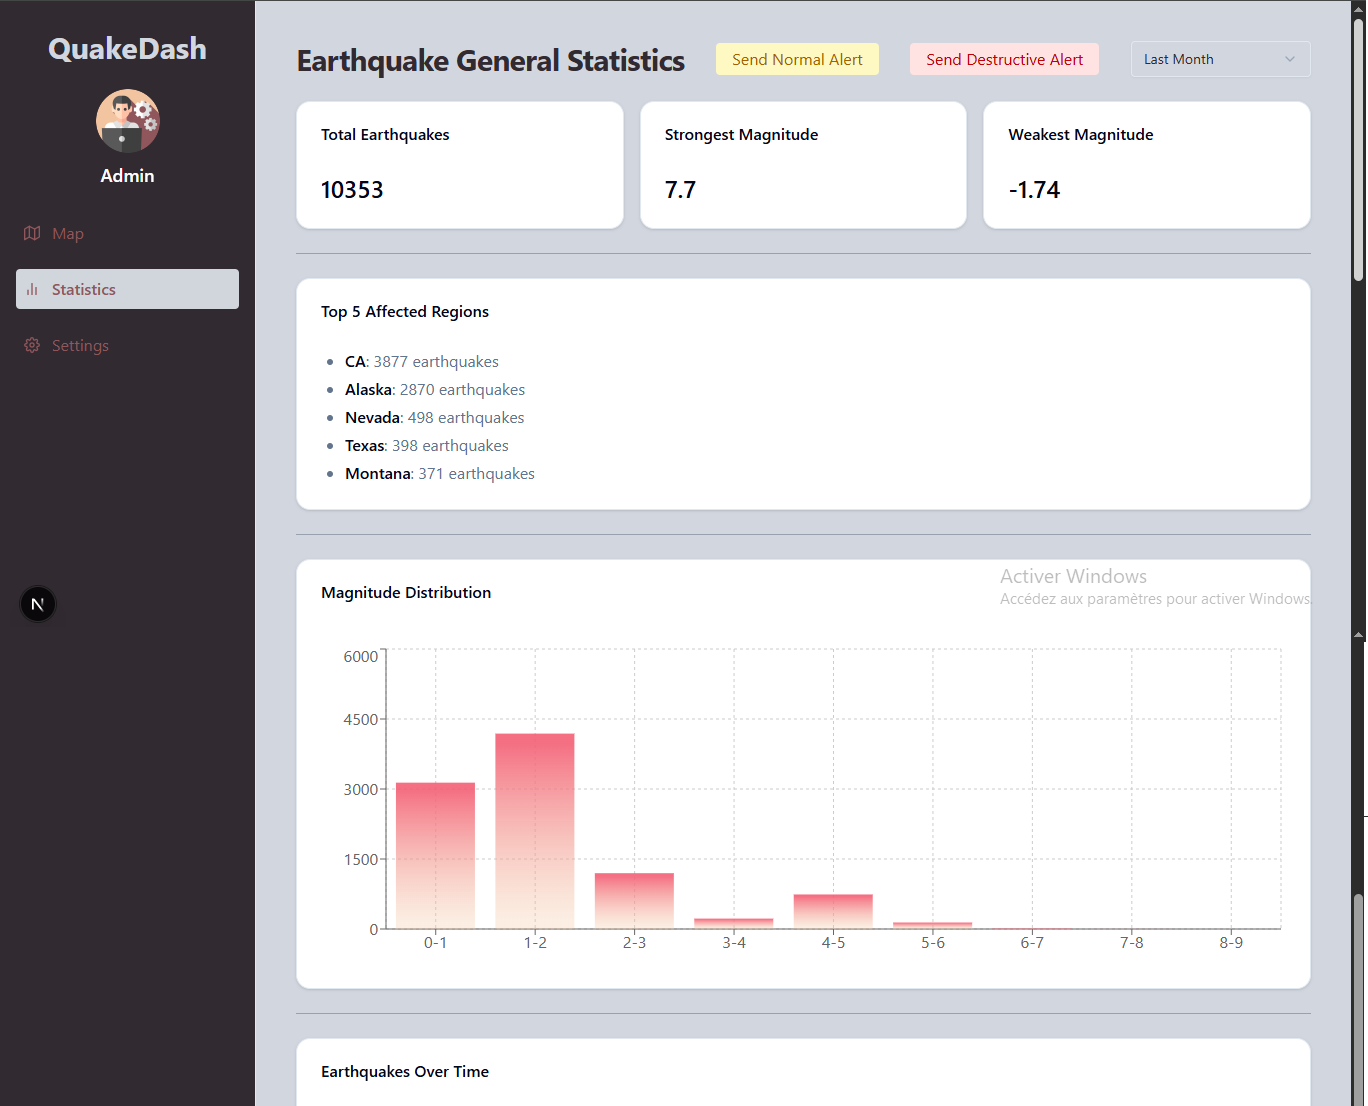
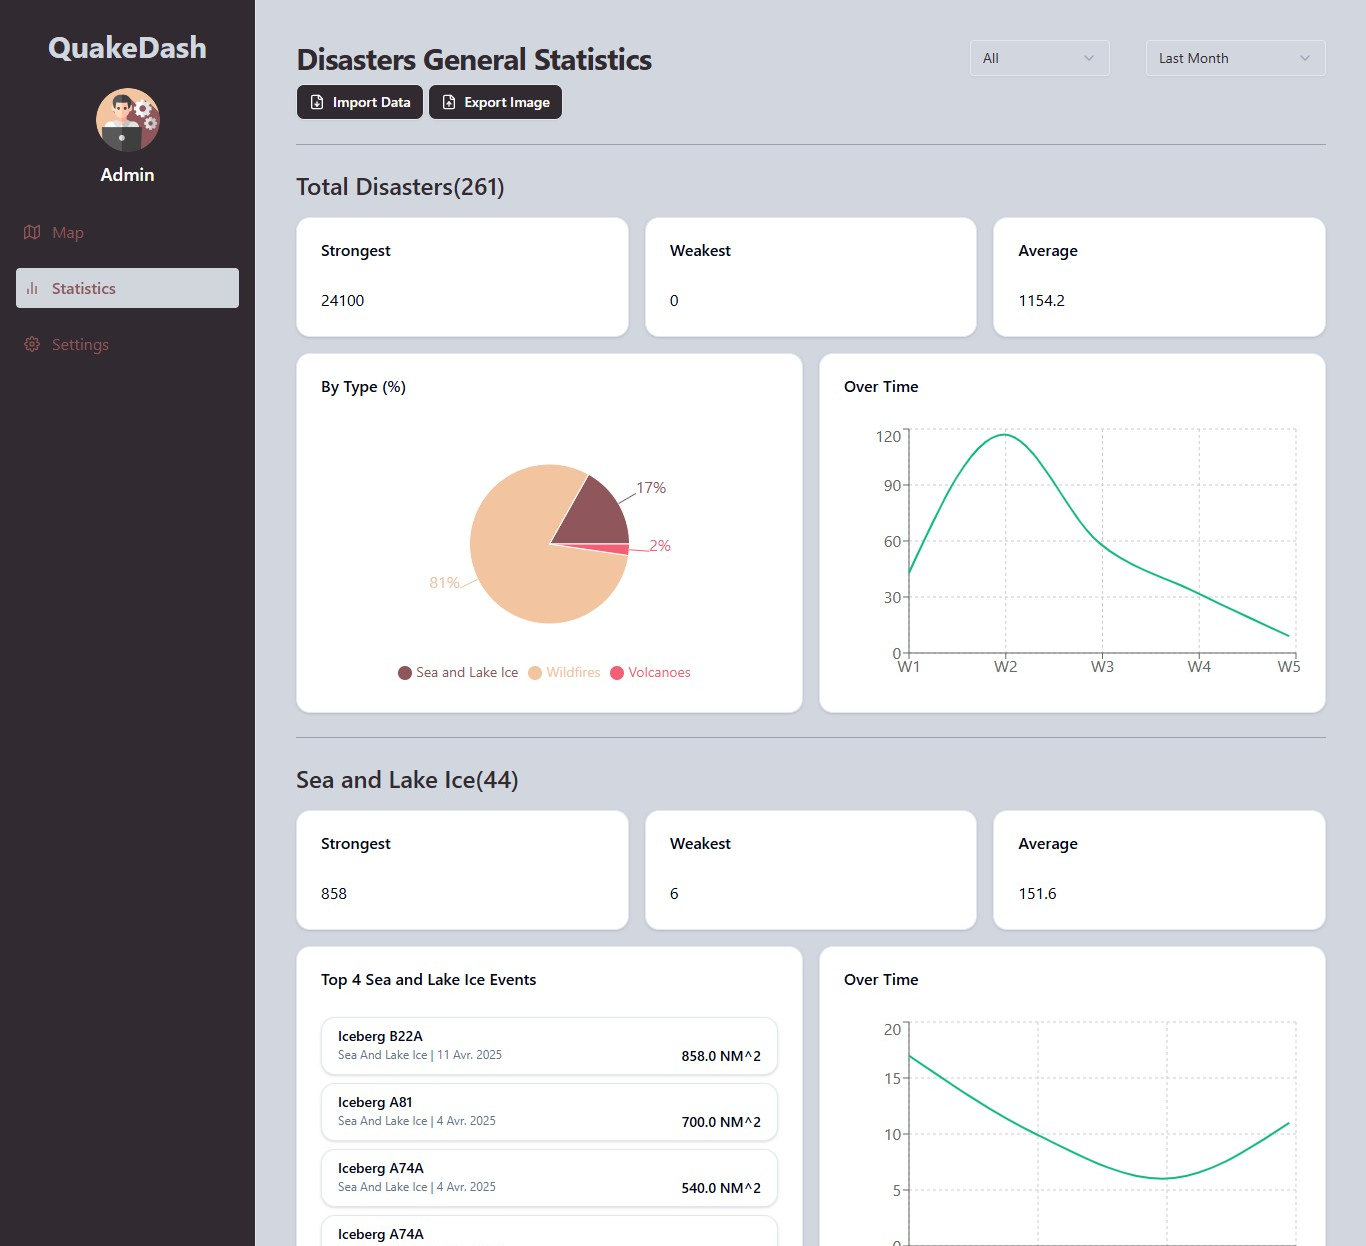
Refactor code structure for improved readability and maintainability

diff --git a/src/app/components/Sidebar.tsx b/src/app/components/Sidebar.tsx
@@ -10,7 +10,7 @@ export default function Sidebar() {
   const pathname = usePathname();
 
   const links = [
-    { name: 'Map', href: '/map', icon: <FiMap /> },
+    { name: 'Real Time Map', href: '/map', icon: <FiMap /> },
     { name: 'Statistics', href: '/statistics', icon: <FiBarChart2 /> },
     { name: 'Settings', href: '/settings', icon: <FiSettings /> },
   ];

diff --git a/src/app/layout.tsx b/src/app/layout.tsx
@@ -4,7 +4,7 @@ import './globals.css';
 import type { Metadata } from 'next';
 
 export const metadata: Metadata = {
-  title: 'Earthquake Dashboard',
+  title: 'QuakeDash',
   description: 'Live data and visualizations',
 };
 

diff --git a/README.md b/README.md
@@ -1,51 +1,57 @@
+# 🌍 Disasters Realtime Map and Stats Dashboard
 
-# 🌍 Earthquake Realtime Map and Stats
-
-A web application that visualizes statistics and recent earthquakes on an interactive map using Leaflet and USGS (United States Geological Survey) earthquake data.
+A web application that visualizes real‐time and batch disaster data (earthquakes, wildfires, icebergs, floods, etc.) on an interactive map and rich statistics panels. Built on Next.js with a MongoDB backend and integrated into a larger Big Data pipeline.
 
 ## 🎯 Purpose of the Project
 
-This dashboard is part of a larger **Big Data pipeline** project focused on:
+Part of a **Big Data pipeline** for:
 
-🔄 Real-time data collection from USGS Earthquake API every minute with redundancy filtering.
+- 🔄 **Streaming ingestion** (Spark Structured Streaming) of multiple sources (USGS, EONET, GDACS)  
+- 🗃 Storage in MongoDB & HDFS  
+- 🧮 **Batch processing** with Spark for cleaning, aggregations, and historical stats  
+- 📊 **Visualization** with this dashboard (Leaflet, Recharts)  
 
-🗃 Raw storage in an HDFS-based Data Lake.
-
-🔥 Streaming processing using Spark Structured Streaming for live updates.
-
-🧮 Batch processing via Apache Spark for cleaning, stats, and aggregations.
-
-🧷 MongoDB for storing streaming results, HDFS for batch outputs.
-
-📊 Visualization with this dashboard (Leaflet.js) and future stats panels.
-
-The goal is to provide an interactive interface for users to **visualize earthquake activity** filtered by time and magnitude, based on data ingested and processed through the Big Data pipeline.
+The goal is to let users explore both **live** and **historical** disaster events filtered by time, magnitude/size, and type.
 
 ## 🚀 Features
 
-- 📊 Displays recent earthquakes on a dynamic map
-- 🕒 Filter earthquakes by time range:
-  - Last hour
-  - Last day
-  - Last week
-  - Last month
-- 📈 Filter earthquakes by minimum magnitude
-- ⚡ Real-time loading indicator during data fetch
-- 💻 Built with Next.js, React, TailwindCSS, Leaflet
+### Map & Live Data
 
-## 🧠 How it works
+- 🗺 **Interactive 2D map** (Leaflet) with switchable street/satellite layers  
+- 🔀 **Multiple disaster sources** (USGS earthquakes, EONET events, GDACS alerts) merged into one “disaster” feed  
+- 🎯 **Filters** by:
+  - Time range: Last hour / day / week / month  
+  - Minimum magnitude/size  
+  - Disaster type (Earthquake, Wildfires, Sea & Lake Ice, Flood, Explosion, etc.)  
+- 🟢🔴 **Color‐coded, icon‐driven markers** on the map, with size and hue proportional to severity
 
-- Fetches earthquake data from the USGS GeoJSON feed
-- Uses Leaflet to render interactive map with markers for each earthquake
-- React state updates the map in real time when filters change
 
-## 🛠 Tech Stack
+### Batch Statistics
 
-- **Frontend**: Next.js (App Router), Tailwind CSS, Shadcn
-- **Map**: Leaflet with React integration
-- **Data Source**: [USGS Earthquake API](https://earthquake.usgs.gov/earthquakes/feed/v1.0/geojson.php)
+- 📈 **General stats** (total events, strongest, weakest, average) per source or type  
+- 📊 **Pie chart** showing % distribution of event types  
+- 📉 **Bar/line charts** for:
+  - Magnitude/size distribution (dynamic scales per type)  
+  - Events over time (minute/hour/week buckets)  
+  - Top affected regions  
+- 🏆 **Top-N dangerous events** list, styled with ShadCN/UI cards  
+- 📦 **Import JSON** files of additional disaster data, seamlessly merged into exportable report  
 
-## 📦 Getting Started
+### PDF & Image Export
+
+- 📄 **Export entire statistics panel** (grouped two sections per page) to multi‐page PDF  
+- 🖼 **Download as high‐resolution PNG** of the full stats section  
+
+## 🏗 Tech Stack
+
+- **Next.js** (App Router, React 18)  
+- **Leaflet** for mapping, dynamic `divIcon` marker overlays  
+- **Recharts** for all charts (Bar, Line, Pie)  
+- **ShadCN/ui** & **TailwindCSS** for UI components & styling  
+- **html2canvas-pro** + **jsPDF** (or direct PNG) for client‐side export  
+- **MongoDB** (collections: `usgs`, `eonet`, `gdacs`, plus user‐imported JSON)  
+
+## 🔧 Getting Started
 
 1. Clone the repository:
    ```bash
@@ -67,14 +73,16 @@ The goal is to provide an interactive interface for users to **visualize earthqu
 
 ## 📷 Screenshots
 
-### 🌍 Earthquake Map View
-![Earthquake Map](./public/screenshots/map.png)
+### 🌍 Real Time Map View
+![Real Time Map](./public/screenshots/map1.png)
 
-### 🔍 Filter by min magnitude Example
-![Filter by Magnitude](./public/screenshots/filter.png)
+### 📈 Statistics View
+![Stats](./public/screenshots/stats.png)
 
-### 📈 General Statistics
-![Last Stats](./public/screenshots/stats.png)
+### 🔍 Import JSON Files Or From Mongodb Collections Feature
+![Import JSON Files](./public/screenshots/import.png)
+
+
 
 ## 📄 License
 
